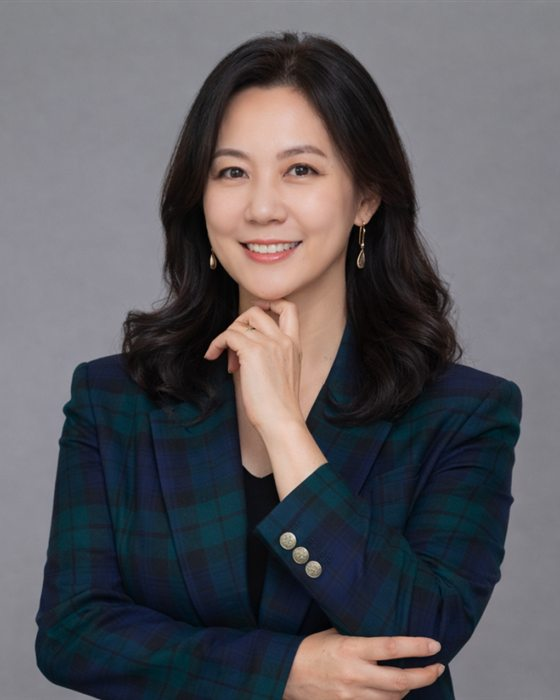
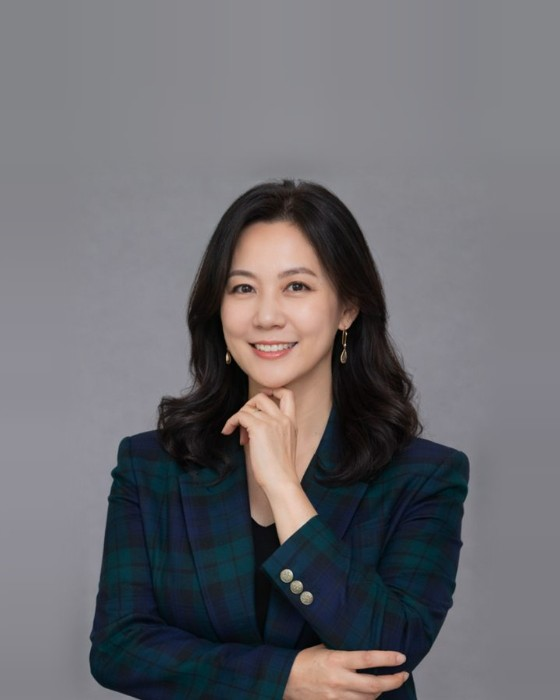
팀 사진: 주은숙·김민승 얼굴 크기를 서진욱 사진에 맞춰 축소(배경 연장), 사진별 보이는 위치 조정

diff --git a/index.html b/index.html
@@ -1178,6 +1178,10 @@ a.st:hover .get i{color:var(--cyan)}
 /* 그래도 넘치는 화면은 스냅을 풀어 자연스럽게 스크롤 */
 html.loose{scroll-snap-type:y proximity}
 html.loose main>section{scroll-snap-stop:normal}
+/* 팀 사진: 축소한 주은숙·김민승 사진의 얼굴 위치를 서진욱 사진과 맞춤 */
+@media (max-width:980px){.photo{aspect-ratio:1/1}.photo img{object-position:center 20%}.photo img[src$="ju.jpg"]{object-position:center 82%}.photo img[src$="kim.jpg"]{object-position:center 66%}}
+.series img[src$="ju.jpg"],.series img[src$="kim.jpg"]{object-position:center bottom}
+@media (min-width:981px){.photo img[src$="ju.jpg"]{object-position:center 36%}.photo img[src$="kim.jpg"]{object-position:center 32%}}
 </style>
 
 <script>document.documentElement.classList.add("js")</script>
